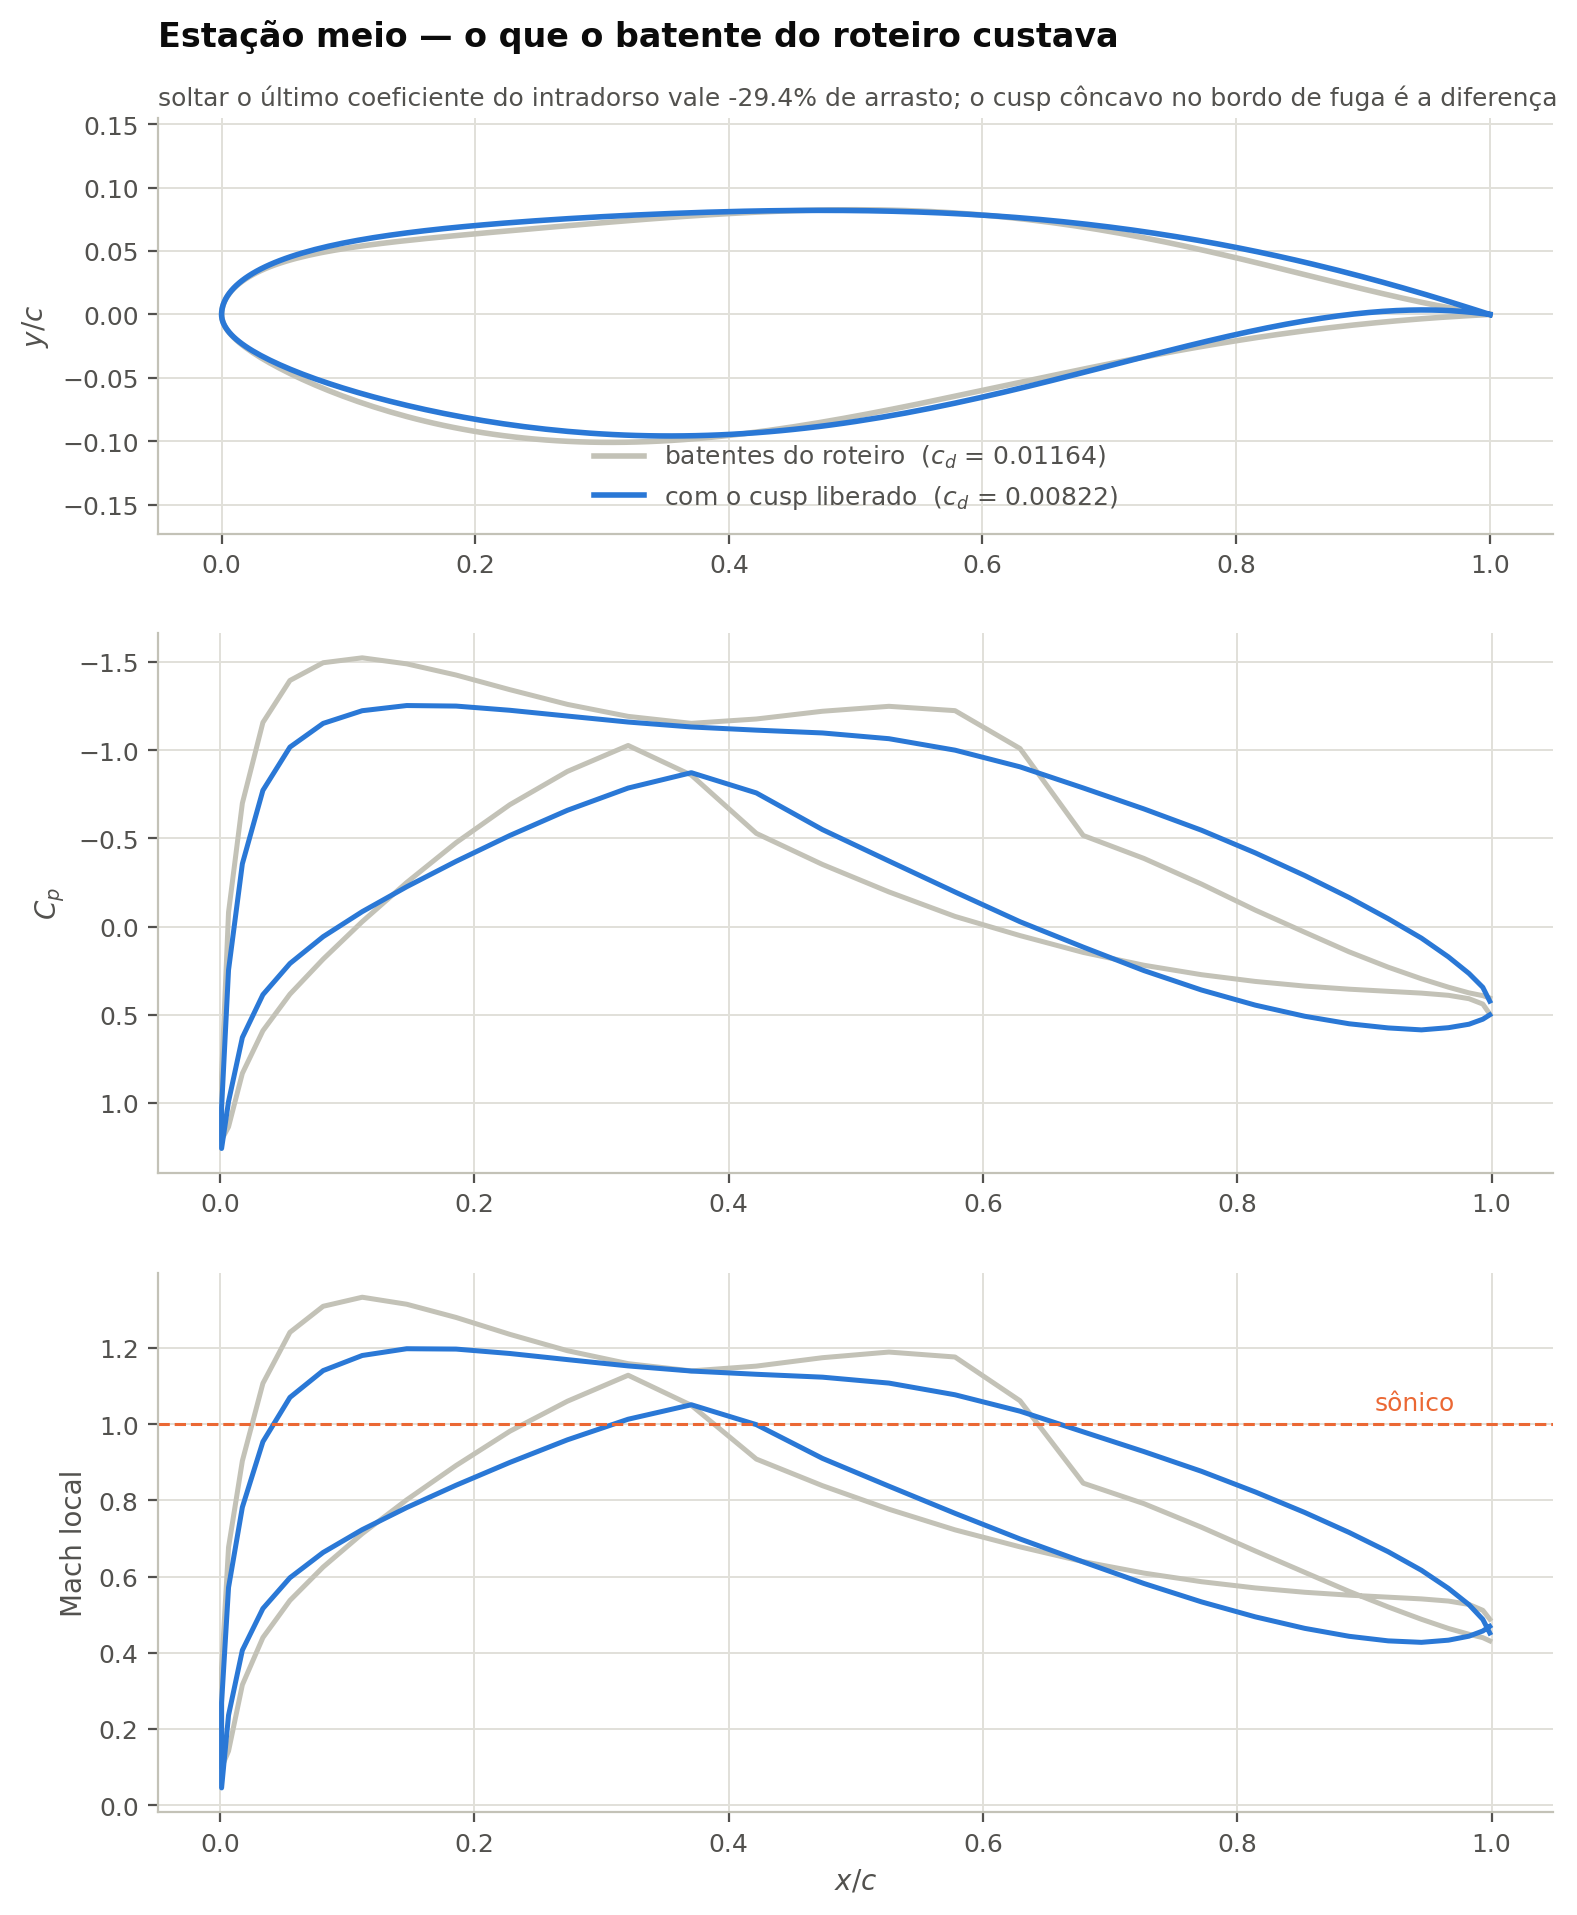
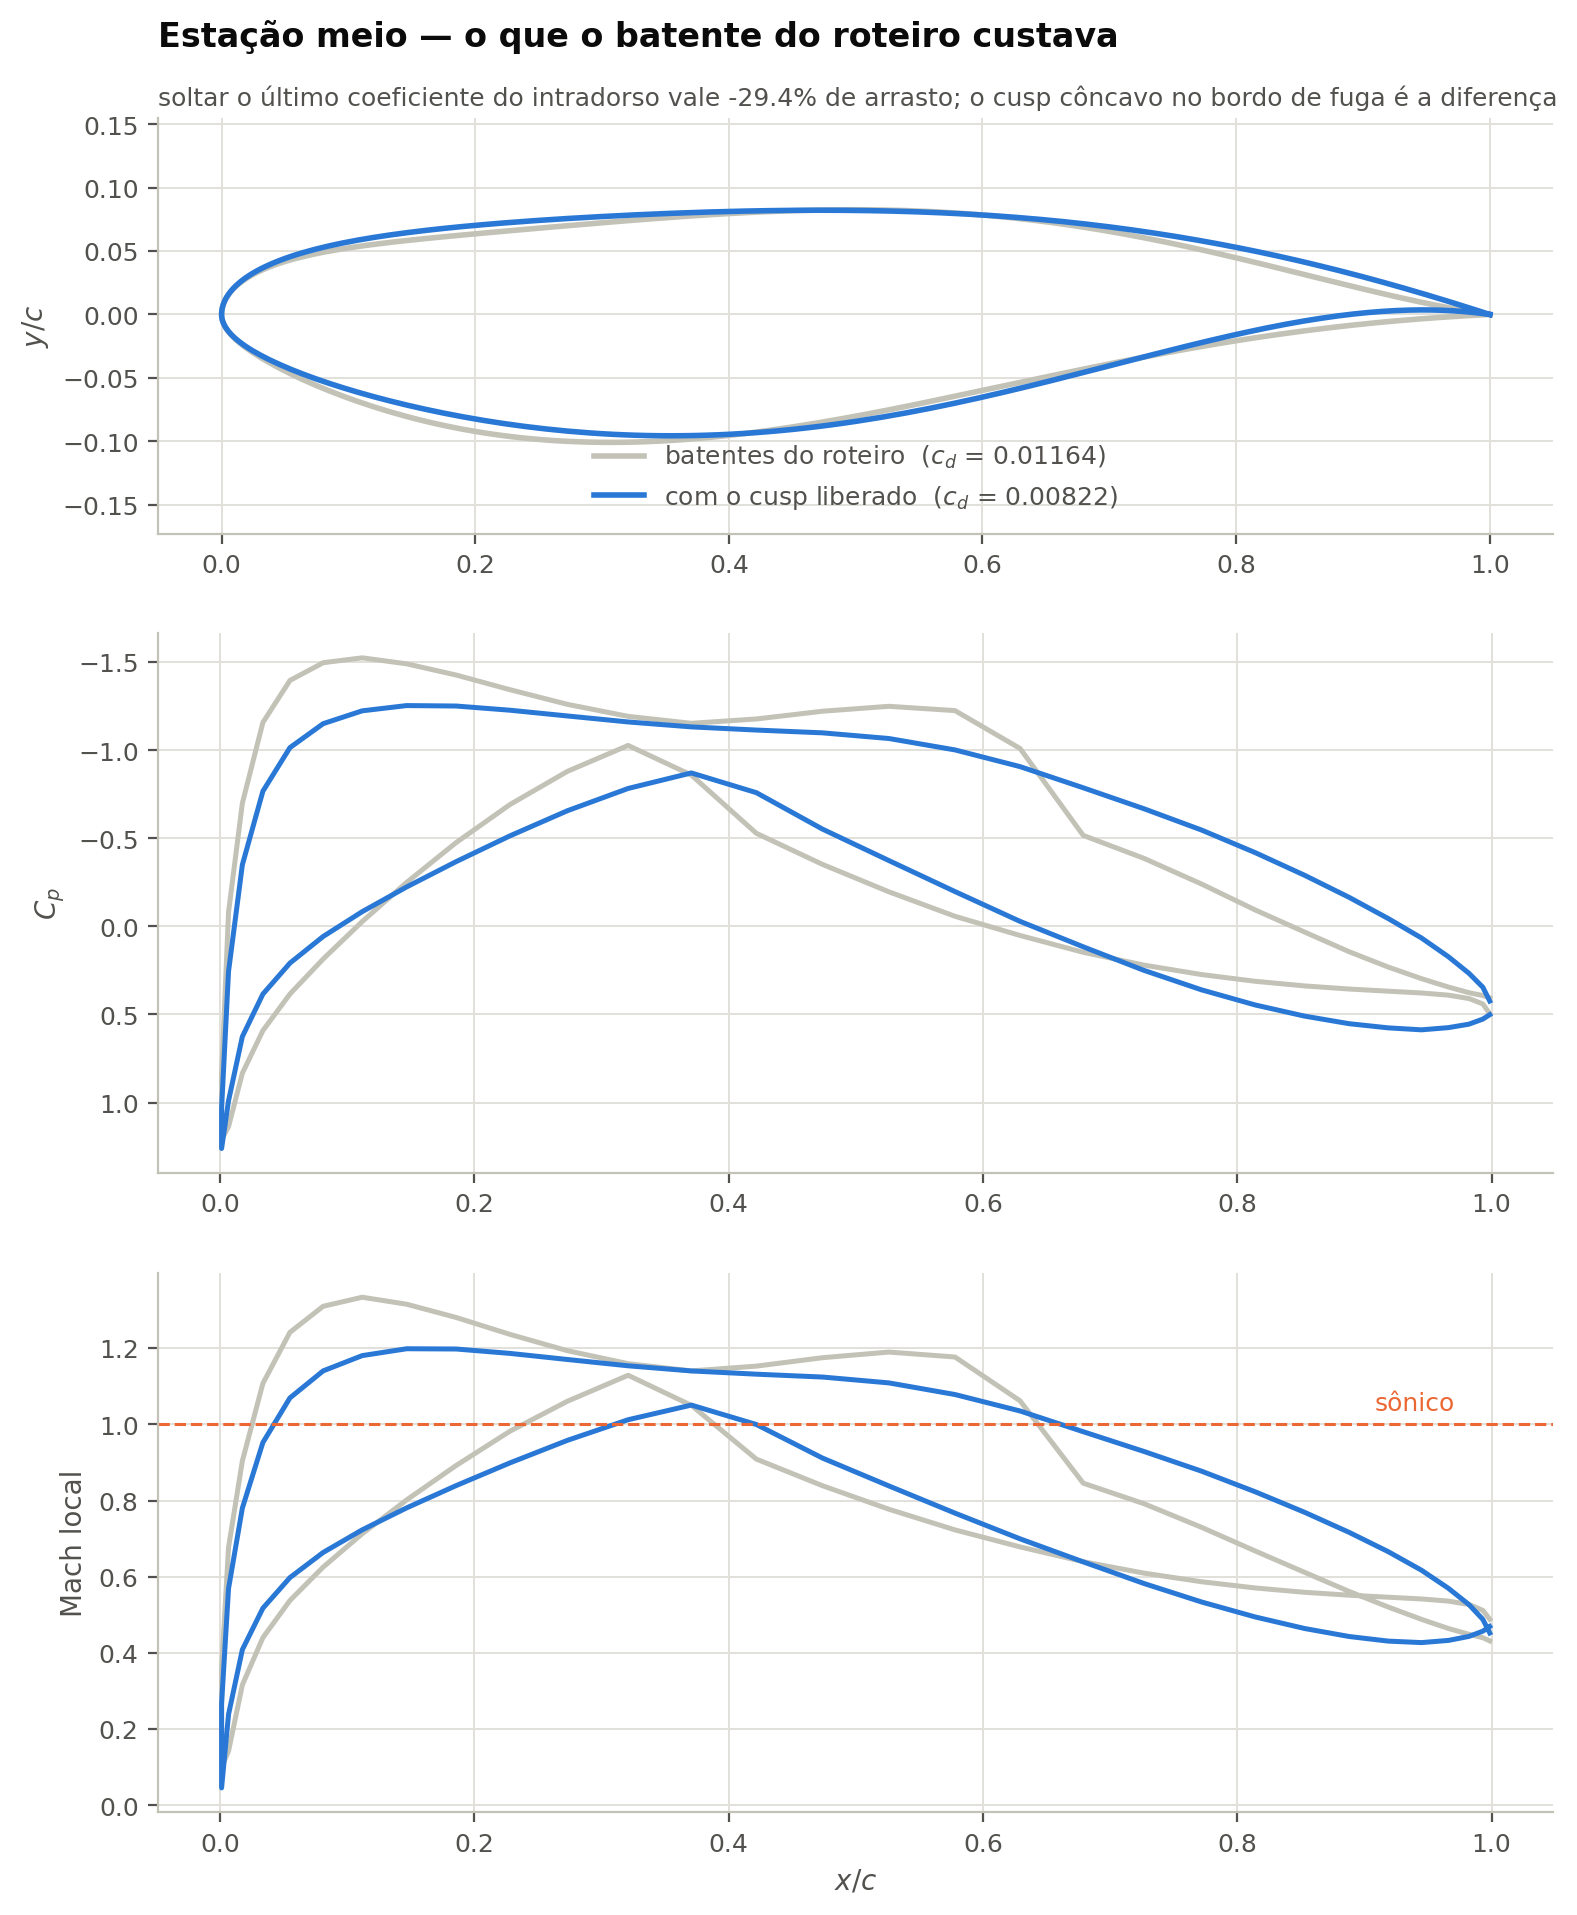
Lab 03: README com os numeros finais e o gerador do zip da entrega
Atualiza a tabela de resultados com as rodadas convergidas, acrescenta a
coluna de clmax real (corrigido pelo vies de +0,24 aferido contra dados
experimentais) e registra os quatro achados de metodo:

- os otimos estavam no BATENTE, nao no interior: cinco batentes ativos, e
  solta-los vale 28 a 41%, quatro vezes mais que a restricao de clmax que
  viemos discutindo. Verificar otimo interior deveria vir ANTES de discutir
  custo de restricao;
- mas o ganho do cusp nao sobrevive a aeronave: saldo -0,000264 depois da
  trimagem, ou seja o perfil isolado melhora 29% e a aeronave piora;
- restricao redundante quebra o subproblema quadratico do SLSQP mesmo quando
  inativa (duas linhas antiparalelas na jacobiana);
- otimos planos existem: a ponta convergiu na avaliacao 21 e gastou mais 99
  passeando com c_d constante na setima casa.

E a nota de metodo mais util: nao anotar numero a mao. O primeiro balanco de
trimagem usou c_m de rodadas parciais e concluiu que o cusp valia a pena
(+13%); com os valores lidos do Euler nos otimos convergidos, o saldo e -19%.

monta_entrega.py gera o Ararinha_PRJ23_Lab03.zip auto-contido, deixando de
fora os subprodutos de execucao e as pastas de rodadas arquivadas.

Claude-Session: https://claude.ai/code/session_01JXbXTrq2uwTCc4qc51ntg6

diff --git a/otimizacao_aerofolio/campanha/monta_entrega.py b/otimizacao_aerofolio/campanha/monta_entrega.py
@@ -1,0 +1,85 @@
+'''
+Monta o zip da entrega -- Ararinha_PRJ23_Lab03.zip
+
+O professor re-executa o codigo, entao o zip precisa ser auto-contido e
+pronto-para-rodar: material dele, nosso codigo, resultados e o passo a passo.
+
+Ficam de fora os subprodutos das execucoes (solution.vtk, grid.xyz, wall.dat,
+derivatives.dat, pickles de historico) e as pastas de rodadas arquivadas,
+que existem so para a discussao de convergencia e nao para o professor
+re-rodar.
+
+Rodar com:  python monta_entrega.py
+'''
+
+import os
+import sys
+import zipfile
+
+AQUI = os.path.dirname(os.path.abspath(__file__))
+LAB = os.path.normpath(os.path.join(AQUI, '..'))
+RAIZ = os.path.normpath(os.path.join(LAB, '..'))
+
+NOME = 'Ararinha_PRJ23_Lab03.zip'
+
+# subprodutos e material que nao deve ir
+IGNORAR_NOMES = {'solution.vtk', 'grid.xyz', 'grid.png', 'wall.dat',
+                 'derivatives.dat', 'historico.pickle', '.gitignore'}
+IGNORAR_EXT = {'.pyc', '.zip'}
+IGNORAR_PASTAS = {'__pycache__', 'build', 'ftol_1e-6', 'ftol_1e-5_singular',
+                  '.egg-info', 'paraview_layouts'}
+
+
+def deve_ir(caminho):
+    partes = caminho.replace('\\', '/').split('/')
+    if any(p in IGNORAR_PASTAS or p.endswith('.egg-info') for p in partes):
+        return False
+    nome = partes[-1]
+    if nome in IGNORAR_NOMES:
+        return False
+    if os.path.splitext(nome)[1].lower() in IGNORAR_EXT:
+        return False
+    return True
+
+
+def main():
+    destino = os.path.join(RAIZ, NOME)
+    n, total = 0, 0
+    with zipfile.ZipFile(destino, 'w', zipfile.ZIP_DEFLATED) as z:
+        for base, _, arquivos in os.walk(LAB):
+            for a in arquivos:
+                cheio = os.path.join(base, a)
+                rel = os.path.relpath(cheio, RAIZ)
+                if not deve_ir(rel):
+                    continue
+                z.write(cheio, rel)
+                n += 1
+                total += os.path.getsize(cheio)
+        # o documento de definicao do problema vai junto
+        doc = os.path.join(RAIZ, 'docs', 'superpowers', 'specs',
+                           '2026-09-10-otimizacao-aerofolio-design.md')
+        if os.path.isfile(doc):
+            z.write(doc, 'otimizacao_aerofolio/DEFINICAO_DO_PROBLEMA.md')
+            n += 1
+
+    tam = os.path.getsize(destino) / 1e6
+    print(f'{NOME}: {n} arquivos, {total/1e6:.1f} MB crus -> {tam:.1f} MB')
+    print(f'gravado em {destino}')
+
+    # confere que o essencial entrou
+    with zipfile.ZipFile(destino) as z:
+        nomes = z.namelist()
+    essenciais = ['campanha/otimiza_secao.py', 'campanha/README.md',
+                  'campanha/xfoil_runner.py', 'eulerblock/package',
+                  'Lab03_PRJ23_2026.pdf', 'DEFINICAO_DO_PROBLEMA.md']
+    print('\nconferencia:')
+    for e in essenciais:
+        ok = any(e in n for n in nomes)
+        print(f'  {"ok " if ok else "FALTA"} {e}')
+    figs = [n for n in nomes if n.endswith('.png')]
+    print(f'  {len(figs)} figuras')
+    return 0
+
+
+if __name__ == '__main__':
+    sys.exit(main())

diff --git a/otimizacao_aerofolio/campanha/README.md b/otimizacao_aerofolio/campanha/README.md
@@ -59,14 +59,21 @@ que pretendemos ter.
 | | raiz | meio | ponta |
 |---|---|---|---|
 | c_d partida | 0,0716 | 0,0560 | 0,0248 |
-| c_d otimizado | 0,0199 | 0,0118 | 0,0089 |
-| ganho (malha fina) | −71,0 % | −85,9 % | −81,7 % |
-| cl_max verificado no XFoil | — | 2,058 | 2,128 |
+| c_d otimizado | 0,0199 | 0,0116 | 0,0089 |
+| ganho | −72,3 % | −79,2 % | −64,3 % |
+| ganho em malha fina | −71,0 % | −85,9 % | −81,7 % |
+| cl_max no XFoil | 1,959 | 2,036 | 2,142 |
+| cl_max real (viés −0,24) | 1,72 | **1,80** | 1,90 |
 | restrição de cl_max | ativa | ativa | ativa |
 
-Na MAC, a restrição de sustentação máxima **custa +10,9 % de arrasto e compra
-0,79 de cl_max**: sem ela o perfil cai para cl_max = 1,264, e a aeronave
+Na MAC, a restrição de sustentação máxima **custa +9,2 % de arrasto e compra
+0,99 de cl_max**: sem ela o perfil cai para cl_max = 1,042, e a aeronave
 ficaria sem margem de empuxo na decolagem.
+
+O `cl_max real` sai do viés medido em `afere_xfoil.py`: rodando perfis NACA
+com valor experimental publicado pela nossa configuração, o XFoil lê **+0,24
+acima** do experimental (mediana de cinco perfis). O α de estol confirma:
+19-20,5° medidos contra 14-17° reais.
 
 ## Achados que valem o relatório
 
@@ -86,6 +93,30 @@ da envergadura dá CDwave = 0,00403 contra 0,00051 da fórmula — **7,9×**.
 abaixo do cl de projeto), a assinatura da otimização mono-ponto. Como o CL de
 cruzeiro varia de 0,612 a 0,417 ao longo da missão, isso justifica uma rodada
 multiponto.
+
+**Os ótimos estavam no batente, não no interior** (`batentes_ativos.py`).
+Com os batentes sugeridos pelo roteiro havia cinco batentes ativos, todos em
+coeficientes do intradorso. Soltar o último — o que constrói o *cusp* côncavo
+do bordo de fuga, que o RAE2822 tem em +0,052 e o roteiro proíbe — rende
+**28 a 41 % de arrasto** por estação, e os ótimos passam a ser interiores.
+Verificar se o ótimo é interior deveria vir **antes** de discutir o custo das
+restrições: aqui a limitação dominante valia quatro vezes mais que a
+restrição de cl_max, e estava invisível.
+
+**Mas o ganho do cusp não sobrevive à aeronave** (`custo_do_cusp.py`). O
+momento de arfagem quase dobra (c_m médio de −0,086 para −0,184), o que exige
+mais download da empenagem, que a asa compensa com mais sustentação:
+
+| | arrasto de onda | CD de trimagem |
+|---|---|---|
+| batentes do roteiro | 0,004013 | 0,000965 |
+| cusp liberado | 0,002598 | 0,002644 |
+
+Ganho de onda +0,001415, custo de trimagem −0,001680, **saldo −0,000264**.
+O perfil isolado melhora 29 % e a aeronave piora. É o caso de livro de
+otimização de subsistema sem acoplamento: o objetivo 2D não enxerga a
+empenagem, então o otimizador gastou livremente uma moeda que não paga.
+Para o cusp valer, a formulação precisa de restrição de c_m.
 
 ## Três defeitos no material fornecido
 
@@ -113,6 +144,25 @@ nível 1,0 subestima o benefício. Mas os c_d **absolutos** que forem para o
 convergiu na avaliação 16 e gastou mais 123 sem parar: o c_d oscila 1,5×10⁻⁵
 depois de convergido, quinze vezes o `ftol`. Usamos 1e-5, o valor do próprio
 professor.
+
+**Restrição redundante quebra o subproblema do SLSQP.** Acrescentamos
+`mint ≥ 0` (não cruzar superfícies) ao lado do `mint ≤ 0,01` do professor. As
+duas linhas da jacobiana são `−dmint` e `+dmint`, exatamente antiparalelas,
+deixando a matriz deficiente em posto **por construção** — o SLSQP morreu com
+"Singular matrix E in LSQ subproblem" e entregou um c_d pior. E era
+desnecessária: o `mint` converge prensado contra o teto de 0,01, ou seja o
+otimizador empurra na direção oposta ao cruzamento. Restrições redundantes
+não são inofensivas, mesmo inativas.
+
+**Ótimos planos existem e o SLSQP não sai deles.** A ponta convergiu na
+avaliação 21 e gastou mais 99: o t/c passeia de 0,1094 a 0,1111 com o c_d
+constante na sétima casa. Não é `ftol` — são projetos distintos com o mesmo
+arrasto.
+
+**Não anote número à mão.** O primeiro balanço de trimagem usou `c_m` copiados
+de rodadas parciais e concluiu que o cusp valia a pena (+13 % de saldo). Com
+os valores lidos do Euler nos ótimos convergidos, o saldo é **−19 %**. O
+atalho quase colocou a conclusão invertida no relatório.
 
 ## Arquivos
 
